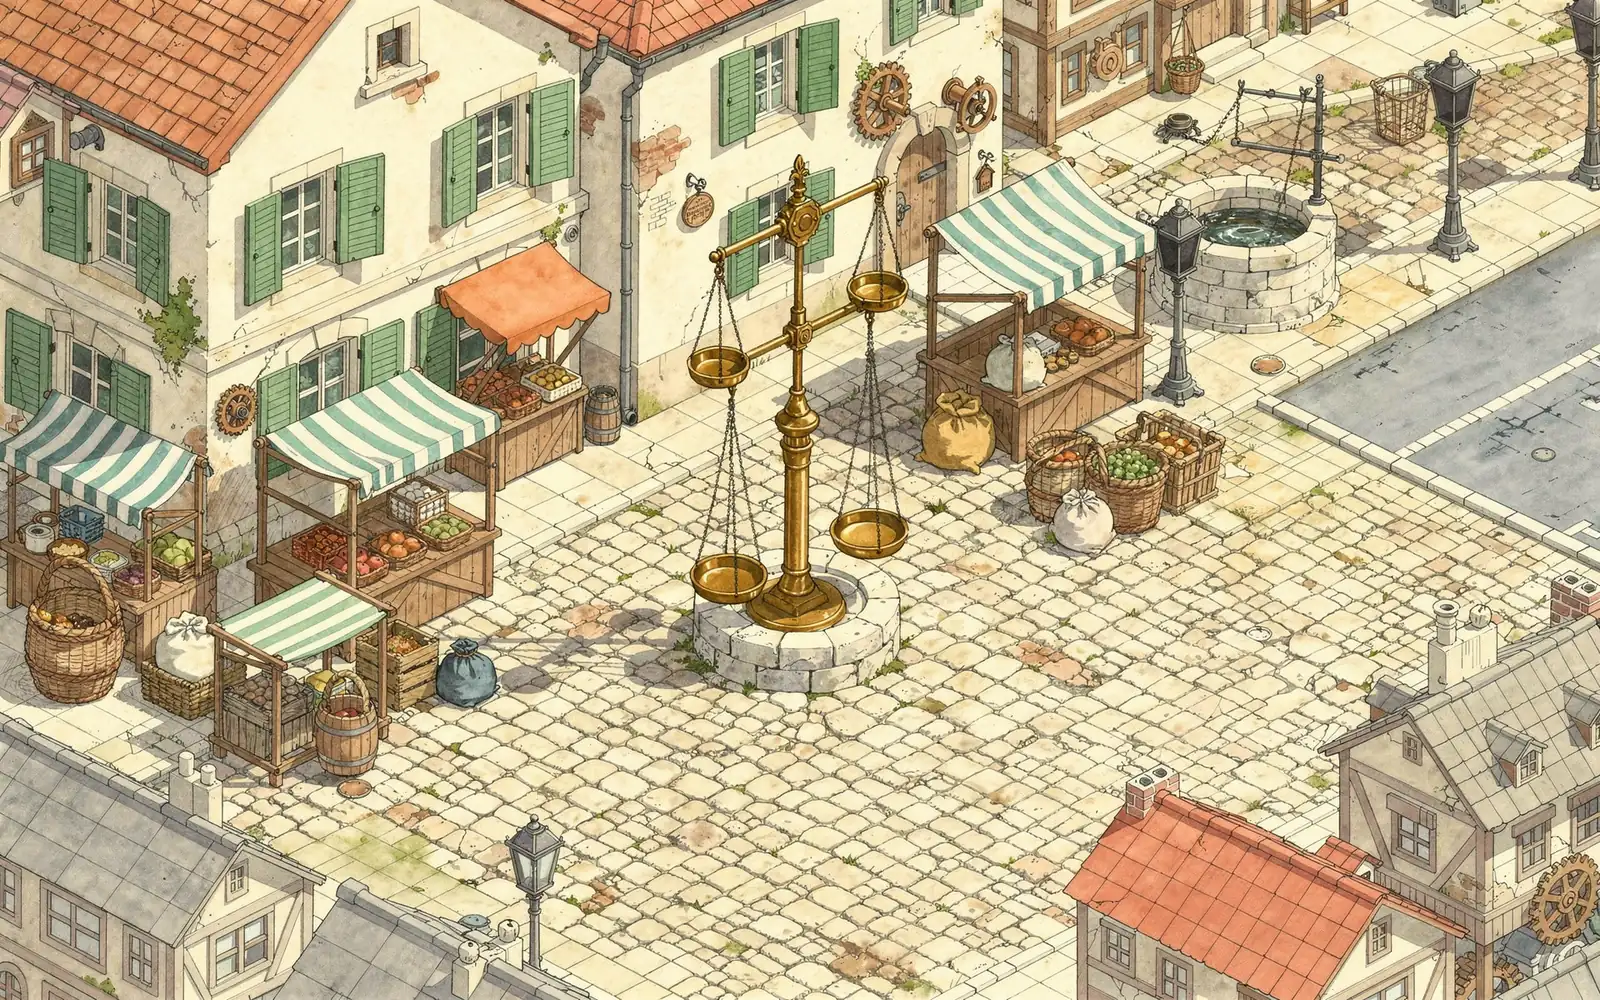
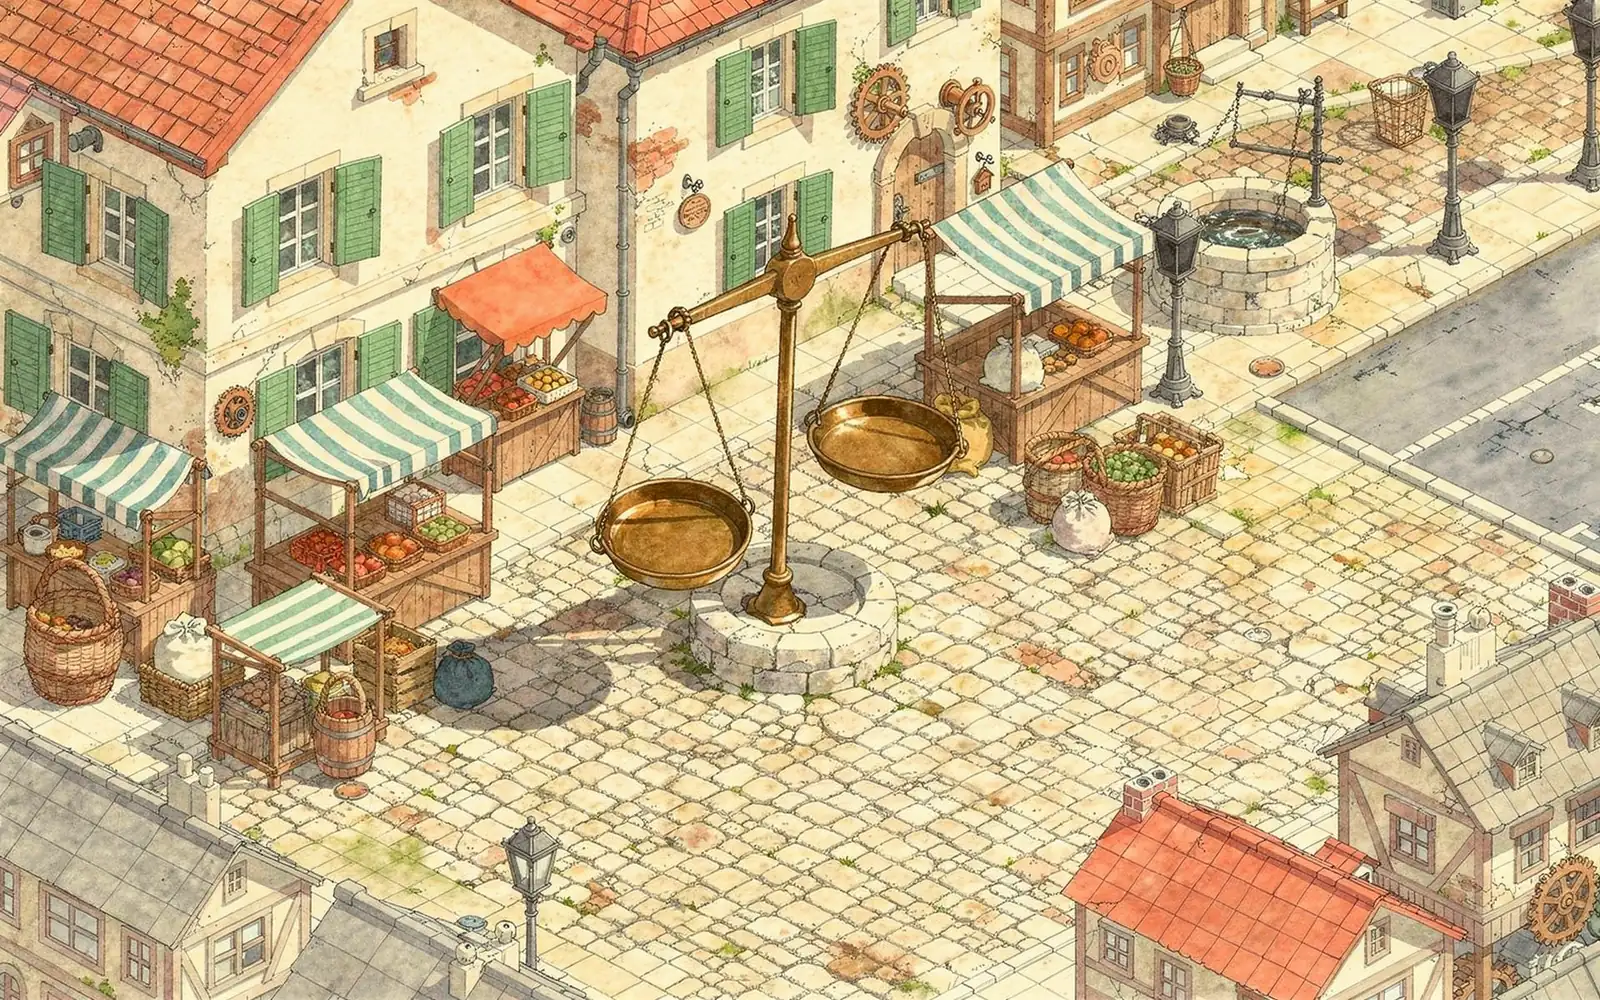
The boss must be beaten, and costs nothing to try; one scale per picture
- Room 13's card no longer says it's over; a banner in every street points to the
  last automaton until he is beaten. Losing to him takes no parts and says to
  buy upgrades. "To be continued" waits for him too.
- Room 13's answer: the hint says to put the number in the box, the spent options
  go, and a tag can't squeeze the line to write out of sight.
- The yard and the market each show one broken scale; both read as two before.

diff --git a/src/content/text/hr.ts b/src/content/text/hr.ts
@@ -209,10 +209,10 @@ export const hr = {
         { who: 'nikola', text: 'Na njoj su brojevi. Kao da sama nešto zapisuje.' },
       ],
       r13: [
-        { who: 'nikola', text: 'Sve točkice leže na jednoj liniji. I cijela četvrt opet radi!' },
+        { who: 'nikola', text: 'Sve točkice leže na jednoj liniji. I svi strojevi opet rade!' },
         {
           who: 'faust',
-          text: 'Zadnji trag na ploči vodi ravno do ljevaonice. A ona je zatvorena.',
+          text: 'Još nije gotovo. Pod tornjem stoji najveći automat i ne da nam dalje.',
         },
       ],
       r09: [
@@ -800,6 +800,8 @@ export const hr = {
     },
     /** At the notebook: the answer line, `x = 9`. */
     answer: (line: string) => `Upiši ${line}.`,
+    /** The same, where the line is already there with a box in it: only the number is his. */
+    answerBox: (n: string) => `Upiši ${n} u kućicu.`,
     /** At the notebook: the check line, on a blank page. */
     check: (n: string) => `Prepiši prvu jednadžbu, a umjesto x upiši ${n}.`,
     /** At the notebook: the check line as a template with x blanked (rooms 1–4). */
@@ -886,6 +888,9 @@ export const hr = {
     won: 'Automat staje. Pobijeđen je.',
     /** On the end screen, while there is anything left to buy. */
     spend: 'Dijelove troši u Radionici na Trgu.',
+    /** Lost to the boss: what to do about it. */
+    bossLost:
+      'Najveći automat je jak. Dijelove ti ne uzima: kupi nadogradnje u Radionici na Trgu i vrati se.',
     /** The district's last fight won. */
     finale: 'To je bio zadnji automat u četvrti. Donji Kotač opet radi!',
     /** Prvi Automat's last notice: the district ends at the foundry door. */
@@ -1203,6 +1208,8 @@ export const hr = {
    */
   now: {
     heading: 'Što sad?',
+    /** In every street, from the last machine until the boss is beaten. */
+    boss: 'Zadnji automat čeka Pod tornjem. Pobijedi ga! Nadogradnje su u Radionici na Trgu.',
     /** Room 6, before the guess: compare what differs, don't add it all up. */
     compare:
       'Koliko je 58 veće od 56? Za toliko je x veći od 27. Stavi zastavicu pa dodirni Potvrdi.',
@@ -1212,8 +1219,8 @@ export const hr = {
     compareWrong: 'Nije pogođeno. 58 je za 2 veće od 56, pa je i x za 2 veći od 27.',
     confirm: 'Zatim dodirni Potvrdi.',
     slide: 'Pomiči klizač dok vaga ne bude ravna.',
-    answer: 'Upiši koliko je x.',
-    check: 'Provjeri: upiši svoj broj umjesto x.',
+    answer: 'U kućicu upiši koliko je x.',
+    check: 'Provjeri: u kućicu upiši svoj broj.',
     weight: 'Stavi uteg na vagu: tako poništiš minus na obje strane.',
     float: 'Stavi balon na vagu: tako makneš broj s obje strane.',
     gear: 'Baloni s x smetaju: stavi zupčanik na vagu, koliko ih je.',

diff --git a/src/room/hint.test.ts b/src/room/hint.test.ts
@@ -101,7 +101,7 @@ describe('the next move (story 1.16)', () => {
     expect(nextMove(room, [])).toEqual({ kind: 'slide', direction: 1 });
     expect(nextMove(dialTo(room, 9), [])).toEqual({ kind: 'slide', direction: -1 });
     const level = dialTo(room, 5);
-    expect(nextMove(level, [])).toEqual({ kind: 'answer', x: 5 });
+    expect(nextMove(level, [])).toEqual({ kind: 'answer', x: 5, template: true });
     const answered = write(level, '5');
     // Room 1's check line is a template, `☐ + 4 = 9` (story 1.16 review: `template`).
     expect(nextMove(answered, [])).toEqual({ kind: 'check', x: 5, template: true });
@@ -115,7 +115,7 @@ describe('the next move (story 1.16)', () => {
     const twoX = dropFloat(room, 5);
     expect(nextMove(twoX, balance)).toEqual({ kind: 'split', parts: 2 });
     const alone = step(splitBothPans(twoX, balance)).room;
-    expect(nextMove(alone, balance)).toEqual({ kind: 'answer', x: 9 });
+    expect(nextMove(alone, balance)).toEqual({ kind: 'answer', x: 9, template: true });
   });
 
   it('adds a weight where x has a number taken away', () => {
@@ -157,7 +157,7 @@ describe('the next move (story 1.16)', () => {
   });
 
   it('puts the answer and the check line in the notebook, the rest in the scene', () => {
-    expect(inNotebook({ kind: 'answer', x: 9 })).toBe(true);
+    expect(inNotebook({ kind: 'answer', x: 9, template: true })).toBe(true);
     expect(inNotebook({ kind: 'check', x: 9, template: true })).toBe(true);
     expect(inNotebook({ kind: 'jam' })).toBe(true);
     expect(inNotebook({ kind: 'split', parts: 2 })).toBe(false);
@@ -261,7 +261,7 @@ describe('the hint after the review of story 1.16', () => {
     const deleted = step(deleteToken(jammed)).room;
     expect(deleted.stage.jam).toBeNull();
     expect(formatEquation(deleted.stage.pans)).toBe('x = 9');
-    expect(nextMove(deleted, balance)).toEqual({ kind: 'answer', x: 9 });
+    expect(nextMove(deleted, balance)).toEqual({ kind: 'answer', x: 9, template: true });
     expect(hintStep(deleted, balance)).toBe('answer');
   });
 
@@ -308,7 +308,7 @@ describe('the hint after the review of story 1.16', () => {
     expect(nextMove(plus, balance)).toEqual({ kind: 'tray', piece: 'float', amount: 14 });
     const alone = dropFloat(plus, 14);
     expect(alone.stage.templates).toHaveLength(2);
-    expect(nextMove(alone, balance)).toEqual({ kind: 'answer', x: 9 });
+    expect(nextMove(alone, balance)).toEqual({ kind: 'answer', x: 9, template: true });
     // Weights only: the smallest comes off as a balloon.
     const weights = write(wheel(), 'x = 4 + 5');
     expect(nextMove(weights, balance)).toEqual({ kind: 'tray', piece: 'float', amount: 4 });

diff --git a/src/room/hint.ts b/src/room/hint.ts
@@ -65,7 +65,7 @@ export type HintMove =
   /** The dial: its knob's ghost goes two notches this way and back. */
   | { kind: 'slide'; direction: 1 | -1 }
   /** The answer line, `x = n`. */
-  | { kind: 'answer'; x: number }
+  | { kind: 'answer'; x: number; template: boolean }
   /**
    * The check line, with n for x; `template` where it is a line with x blanked to fill
    * (rooms 1–4), so the hint says only what goes in the blank.
@@ -197,7 +197,8 @@ function balanceMove(room: RoomState, tools: readonly ToolId[], n: number): Hint
   const { stage } = room;
   const spec = currentStageSpec(room);
   const pans = stage.pans;
-  if (answerOnPans(room)) return { kind: 'answer', x: n };
+  if (answerOnPans(room))
+    return { kind: 'answer', x: n, template: room.stage.templates.length > 0 };
   const gear = trayHasGear(spec);
   const next = nextStep(machineEquation(spec, stage.machine), pans, 'balance', { trayGear: gear });
   if (next === null) return null;
@@ -239,7 +240,8 @@ function resultBlankWaits(room: RoomState): boolean {
  * the notebook's own tag and blank pulse cover).
  */
 function chainMove(room: RoomState, tools: readonly ToolId[], n: number): HintMove | null {
-  if (answerOnPans(room)) return { kind: 'answer', x: n };
+  if (answerOnPans(room))
+    return { kind: 'answer', x: n, template: room.stage.templates.length > 0 };
   const chain = pansChain(room);
   if (chain && resultBlankWaits(room)) return { kind: 'blank', value: chain.output };
   const link = chain ? lastLink(chain) : null;
@@ -262,7 +264,9 @@ export function nextMove(room: RoomState, tools: readonly ToolId[]): HintMove | 
   }
   const way = wayOf(room, tools, n);
   if (way === 'try') {
-    return room.stage.dialX === n ? { kind: 'answer', x: n } : slideToward(n, room.stage.dialX);
+    return room.stage.dialX === n
+      ? { kind: 'answer', x: n, template: room.stage.templates.length > 0 }
+      : slideToward(n, room.stage.dialX);
   }
   if (way === 'undo') return chainMove(room, tools, n);
   if (way !== 'balance') return null;

diff --git a/src/ui/map/MapScreen.tsx b/src/ui/map/MapScreen.tsx
@@ -36,6 +36,7 @@ export function MapScreen({ onTravel }: { onTravel?(node: NodeId): void } = {}) 
   const seen = useGame((s) => s.save.progress.ideasSeen);
   const name = useGame((s) => s.save.character.name);
   const parts = useGame((s) => s.save.economy.parts);
+  const bossBeaten = useGame((s) => s.save.economy.lairs['lair-60'] !== undefined);
   const pages = useGame((s) => s.save.progress.tornPages);
   const dispatch = useGame((s) => s.dispatch);
   const view = useMemo(
@@ -60,6 +61,7 @@ export function MapScreen({ onTravel }: { onTravel?(node: NodeId): void } = {}) 
       name={name}
       pages={pages}
       parts={parts}
+      bossBeaten={bossBeaten}
       onTravel={onTravel ?? ((node) => dispatch({ type: 'map/travel', node }))}
     />
   );
@@ -76,6 +78,8 @@ interface BoardProps {
   pages?: readonly PageId[];
   /** His parts, on the counter in the board's corner once he has any (story 3.6). */
   parts?: number;
+  /** The final fight is won: only then does the story go on elsewhere. */
+  bossBeaten?: boolean;
   onTravel(node: NodeId): void;
   /** For tests: the log starts open. */
   logOpen?: boolean;
@@ -93,6 +97,7 @@ export function MapBoard({
   name = null,
   pages = [],
   parts = 0,
+  bossBeaten = true,
   onTravel,
   logOpen = false,
 }: BoardProps) {
@@ -118,7 +123,7 @@ export function MapBoard({
         {nodes.map((node) => (
           <MapNode key={node.area} node={node} onTravel={onTravel} />
         ))}
-        {view.allDone && <p className="map__note">{hr.app.toBeContinued}</p>}
+        {view.allDone && bossBeaten && <p className="map__note">{hr.app.toBeContinued}</p>}
         <PartsCounterView shown={parts} visible={parts > 0} flight={null} />
         {pages.length > 0 && (
           <button

diff --git a/src/ui/town/TownScreen.tsx b/src/ui/town/TownScreen.tsx
@@ -477,6 +477,8 @@ export function TownBoard({
   const lairOut = area.lair !== null && nodes.get(area.lair)?.state !== 'closed';
   // The final fight, waiting: the one thing left to do.
   const finalWaits = area.lair === 'lair-60' && lairOut && !beaten('lair-60');
+  // Until he is beaten the game isn't over, in whichever street he is.
+  const bossWaits = nodes.get('lair-60')?.state === 'open' && !beaten('lair-60');
   const exits = area.exits.filter((exit) => done.includes(exit.opensWith));
   // An open way on takes the tap over its area (the raised gate is now a way through).
   const places = area.places.filter(
@@ -791,6 +793,11 @@ export function TownBoard({
         </button>
       </main>
       {showMap && <MapOverlay onClose={() => setShowMap(false)} onPick={pick} />}
+      {bossWaits && !slides && !showMap && !showIntro && (
+        <p className="town__goal" role="status">
+          {hr.now.boss}
+        </p>
+      )}
       {slides && (
         <div className="town__overlay">
           <StoryPanels

diff --git a/src/ui/notebook/notebook.css b/src/ui/notebook/notebook.css
@@ -265,6 +265,7 @@
    under them; the pad stays at the bottom, and a long page still scrolls. */
 .notebook[data-handover="true"] .notebook__lines {
   flex: 0 1 auto;
+  min-height: 64px;
 }
 
 .notebook[data-handover="true"] .pad {
@@ -949,6 +950,11 @@
   text-decoration: underline;
 }
 
+/* Once the pin is tested, its heights make room for the line to write. */
+.drum__pin:not([data-asks]) {
+  display: none;
+}
+
 .drum__options {
   flex-direction: row;
   margin-top: 6px;
@@ -992,11 +998,6 @@
 
   .notebook:has(.drum) .drum__plot {
     max-height: 52px;
-  }
-
-  /* Once the pin is tested, its heights make room for the pad. */
-  .drum__pin:not([data-asks]) {
-    display: none;
   }
 
   .notebook[data-choosing="true"] .chain {

diff --git a/src/ui/town/town.css b/src/ui/town/town.css
@@ -298,6 +298,28 @@
   line-height: 1;
 }
 
+/* The one thing left to do, over every street. */
+.town__goal {
+  position: fixed;
+  top: 8px;
+  left: 50%;
+  z-index: 3100;
+  width: min(62%, 720px);
+  margin: 0;
+  padding: 8px 14px;
+  border: 3px solid var(--ink);
+  border-radius: 12px;
+  background: var(--lamp-wash);
+  box-shadow: 0 4px 0 var(--ink);
+  color: var(--ink);
+  font-size: clamp(15px, 2.6dvh, 22px);
+  font-weight: 600;
+  line-height: 1.25;
+  text-align: center;
+  pointer-events: none;
+  transform: translateX(-50%);
+}
+
 .town__ask {
   position: absolute;
   top: -0.2em;

diff --git a/src/ui/common/hint-text.ts b/src/ui/common/hint-text.ts
@@ -53,7 +53,9 @@ function moveSpot(move: HintMove): HintSpot {
     case 'answer':
       return {
         place: 'notebook',
-        text: hr.hint.answer(formatEquation({ left: xVar(), right: num(move.x) })),
+        text: move.template
+          ? hr.hint.answerBox(formatNumber(move.x))
+          : hr.hint.answer(formatEquation({ left: xVar(), right: num(move.x) })),
       };
     case 'check': {
       const n = formatNumber(move.x);

diff --git a/src/ui/common/hint-text.test.ts b/src/ui/common/hint-text.test.ts
@@ -65,7 +65,7 @@ describe('where the hint’s tag hangs and what it says (story 1.16)', () => {
   });
 
   it('writes the answer and the check line at the notebook, in school notation', () => {
-    expect(hintSpot(view({ move: { kind: 'answer', x: 9 } }))).toEqual({
+    expect(hintSpot(view({ move: { kind: 'answer', x: 9, template: false } }))).toEqual({
       place: 'notebook',
       text: hr.hint.answer('x = 9'),
     });

diff --git a/src/ui/fight/FightEnd.tsx b/src/ui/fight/FightEnd.tsx
@@ -73,6 +73,7 @@ export function FightEndPanel({
           )}
         </div>
       )}
+      {!won && fight.lairId === 'lair-60' && <p className="fight__pay-line">{hr.fight.bossLost}</p>}
       {end && !won && (
         <p className="fight__pay-line">
           {end.dropped > 0 ? hr.fight.dropped(end.dropped) : hr.fight.droppedNone}

diff --git a/src/fight/settle.ts b/src/fight/settle.ts
@@ -95,7 +95,8 @@ export function settleFight(
     };
   }
 
-  const dropped = droppedParts(economy.parts);
+  // The boss takes nothing: he has to be beaten to finish, so trying again must never cost.
+  const dropped = lair.id === 'lair-60' ? 0 : droppedParts(economy.parts);
   const next: Economy =
     dropped === 0
       ? economy

diff --git a/art-src/CREDITS.md b/art-src/CREDITS.md
@@ -1,4 +1,4 @@
-images generated: 78/100
+images generated: 80/100
 
 # Art credits
 
@@ -1362,3 +1362,37 @@ nothing. Each names its source and the exact command.
   ```text
   A small worn leather notebook with a brass clasp lying open on a stone doorstep at the foot of a huge iron door, a stub of pencil on its blank page, orange light from under the door falling across it. Nobody in the picture, no hands. Close view from low at a slight angle. The open notebook in the foreground, the bottom of the door behind it. Still and quiet. Unsigned game art, hand-drawn in ink and watercolour like an inventor’s sketch come to life. Fine dark blue-grey ink linework (#3D4B5C) drawn with a technical pen: clean confident outer contours, thinner interior lines, light parallel hatching for shade, a few faint construction lines. Loose transparent watercolour washes inside the lines, flat and calm. Smooth flat cream ground (#F4EFE3) like hot-pressed paper, with no visible paper texture, grain, speckle or stains, and no border, frame or margin line. Palette: polished brass (#B8893A, highlights #E2C07A), warm copper (#B5603A), muted verdigris (#5E9C8F), dark iron (#59616B), weathered wood (#8A6A4A), pale limestone (#D8CFBF), terracotta roof tiles (#B9654A), everything else in soft greys of the ink; colours stay muted, and brass and copper are the most saturated colours in the picture. Soft even daylight from the upper left, gentle shading, no harsh or dramatic lighting. Gear-driven and steam-driven machines in a timeless Central European town with a Croatian character, before electricity: no wires, antennas, light bulbs, cars or other modern objects. Friendly and a little whimsical, like Machinarium, never grim. The image contains no text, no letters, no numbers, no labels, no logo and no clock faces; every dial, plate and sign is blank. No signature, initials, monogram or date anywhere; all four corners are empty.
   ```
+
+### 79. `tests/town-yard-broken.t79.webp`
+
+- Model: FLUX.2 [max], fal.ai endpoint `fal-ai/flux-2-max/edit`
+- Seed: 9011
+- Generated at 1920 × 1200 PNG; saved as WebP 1600 × 1000, quality 46, 287 KB
+- References: `town-yard-level.t63.png`
+- Style block: v4
+- Date: 2026-11-08
+- Origin and licence: AI-generated through the fal.ai API; used under fal.ai’s terms for model outputs
+- Notes: The yard before room 6: one scale, broken, so it never reads as two.
+- Prompt:
+
+  ```text
+  Edit image 1. Keep everything exactly as it is: the same composition, camera angle, buildings, ground, scale and drawing style. Change only what follows. The long brass balance beam is broken and has fallen: one end has dropped so it hangs steeply tilted, one of its chains snapped and lying on the ground. The platform is empty: no crate on it. The pan in the middle is empty and hangs crooked, with no weights in it. No people, no animals. Unsigned game art, hand-drawn in ink and watercolour like an inventor’s sketch come to life. Fine dark blue-grey ink linework (#3D4B5C) drawn with a technical pen: clean confident outer contours, thinner interior lines, light parallel hatching for shade, a few faint construction lines. Loose transparent watercolour washes inside the lines, flat and calm. Smooth flat cream ground (#F4EFE3) like hot-pressed paper, with no visible paper texture, grain, speckle or stains, and no border, frame or margin line. Palette: polished brass (#B8893A, highlights #E2C07A), warm copper (#B5603A), muted verdigris (#5E9C8F), dark iron (#59616B), weathered wood (#8A6A4A), pale limestone (#D8CFBF), terracotta roof tiles (#B9654A), everything else in soft greys of the ink; colours stay muted, and brass and copper are the most saturated colours in the picture. Soft even daylight from the upper left, gentle shading, no harsh or dramatic lighting. Gear-driven and steam-driven machines in a timeless Central European town with a Croatian character, before electricity: no wires, antennas, light bulbs, cars or other modern objects. Friendly and a little whimsical, like Machinarium, never grim. The image contains no text, no letters, no numbers, no labels, no logo and no clock faces; every dial, plate and sign is blank. No signature, initials, monogram or date anywhere; all four corners are empty.
+  ```
+- town-yard-broken.t79 (2026-11-08): replaces yard.webp; the hanging scale over the floor platform read as two scales.
+
+### 80. `tests/town-market-broken.t80.webp`
+
+- Model: FLUX.2 [max], fal.ai endpoint `fal-ai/flux-2-max/edit`
+- Seed: 9012
+- Generated at 1920 × 1200 PNG; saved as WebP 1600 × 1000, quality 58, 300 KB
+- References: `town-market-level.t62.png`
+- Style block: v4
+- Date: 2026-11-08
+- Origin and licence: AI-generated through the fal.ai API; used under fal.ai’s terms for model outputs
+- Notes: The market before room 10: one scale, tipped and empty; the first picture had two stacked.
+- Prompt:
+
+  ```text
+  Edit image 1. Keep everything exactly as it is: the same composition, camera angle, buildings, stalls, ground, scale and drawing style. Change only what follows. There is one single market scale on the stone base, with one beam and two pans. Its beam is tipped steeply to one side, one pan low and one pan high, and both pans are empty: no sacks in them. No people, no animals. Unsigned game art, hand-drawn in ink and watercolour like an inventor’s sketch come to life. Fine dark blue-grey ink linework (#3D4B5C) drawn with a technical pen: clean confident outer contours, thinner interior lines, light parallel hatching for shade, a few faint construction lines. Loose transparent watercolour washes inside the lines, flat and calm. Smooth flat cream ground (#F4EFE3) like hot-pressed paper, with no visible paper texture, grain, speckle or stains, and no border, frame or margin line. Palette: polished brass (#B8893A, highlights #E2C07A), warm copper (#B5603A), muted verdigris (#5E9C8F), dark iron (#59616B), weathered wood (#8A6A4A), pale limestone (#D8CFBF), terracotta roof tiles (#B9654A), everything else in soft greys of the ink; colours stay muted, and brass and copper are the most saturated colours in the picture. Soft even daylight from the upper left, gentle shading, no harsh or dramatic lighting. Gear-driven and steam-driven machines in a timeless Central European town with a Croatian character, before electricity: no wires, antennas, light bulbs, cars or other modern objects. Friendly and a little whimsical, like Machinarium, never grim. The image contains no text, no letters, no numbers, no labels, no logo and no clock faces; every dial, plate and sign is blank. No signature, initials, monogram or date anywhere; all four corners are empty.
+  ```
+- town-market-broken.t80 (2026-11-08): replaces market.webp; the first had two scales stacked.
